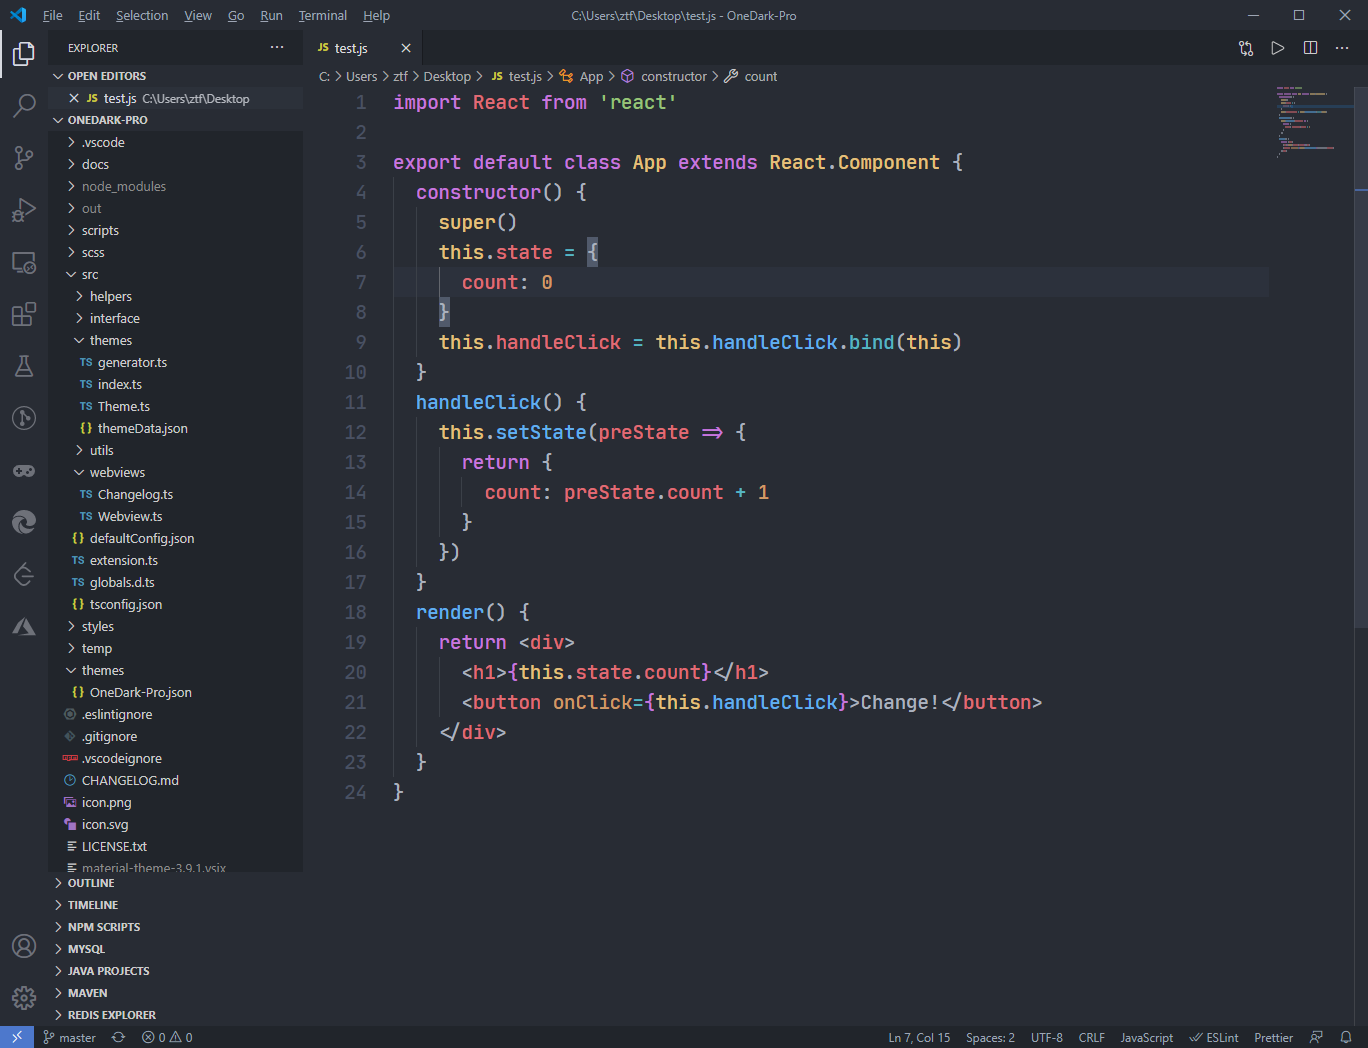
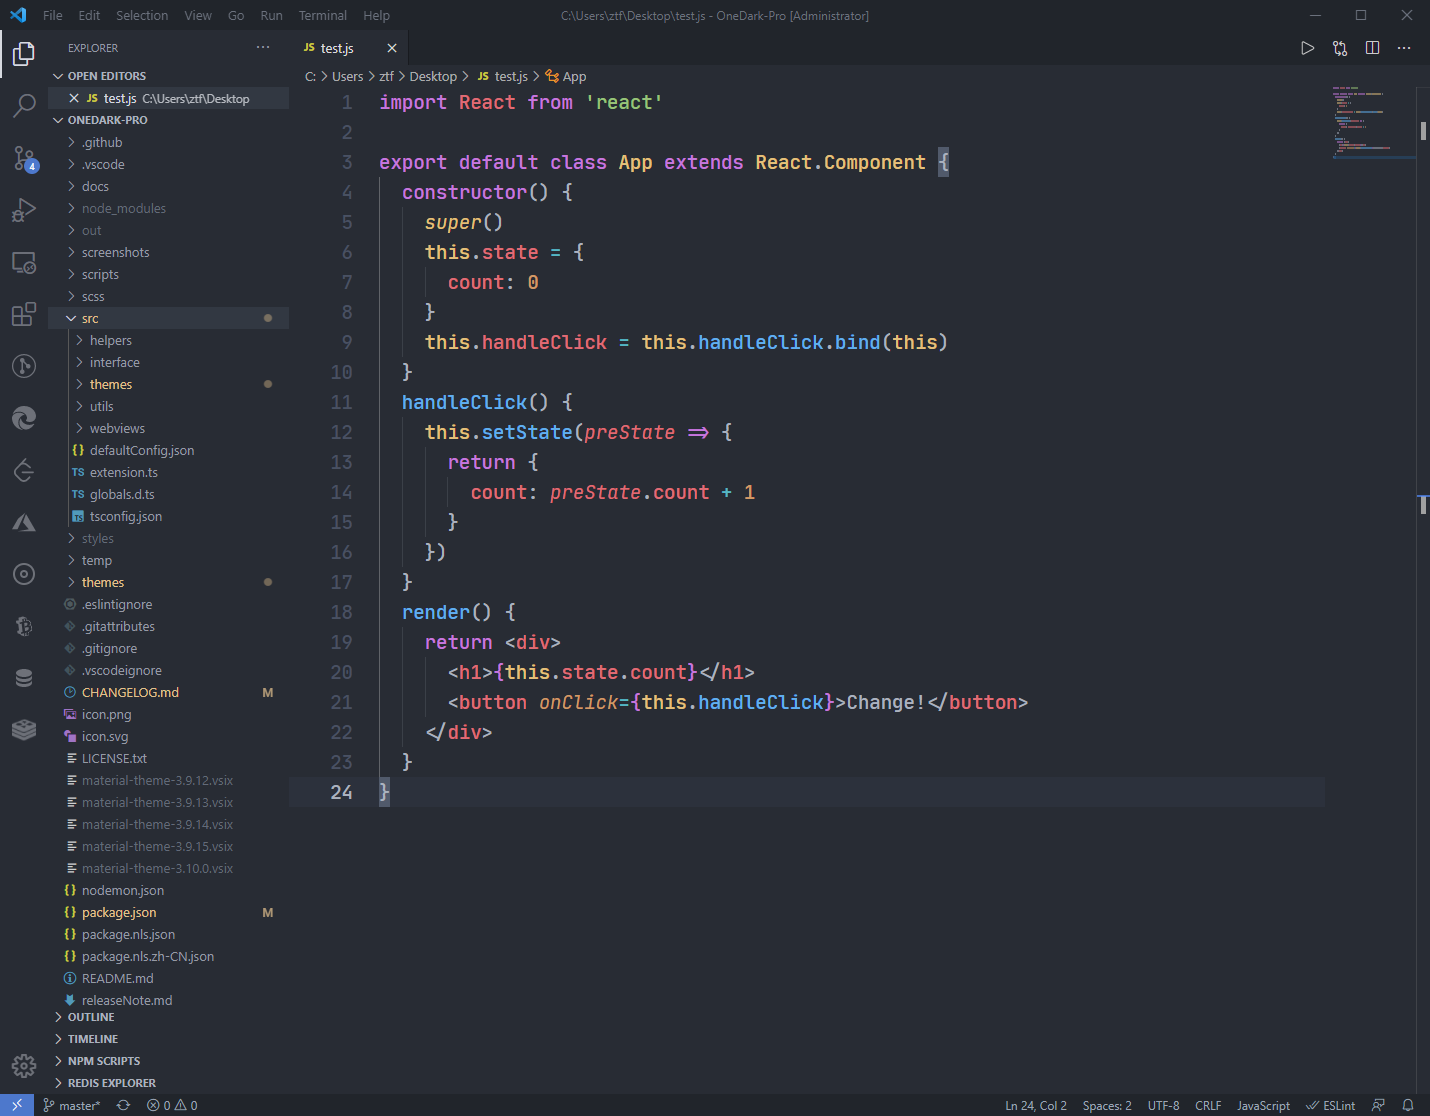
make default theme sidebar more flat, improve flat theme

diff --git a/CHANGELOG.md b/CHANGELOG.md
@@ -1,4 +1,9 @@
 # CHANGELOG
+## 3.10.0 | 2021.04.03
+- Make default theme sidebar more flat
+ 
+- Improve flat theme
+
 ## 3.9.15 | 2021.02.16
 - Add shadow theme[#512](https://github.com/Binaryify/OneDark-Pro/pull/512)
 
